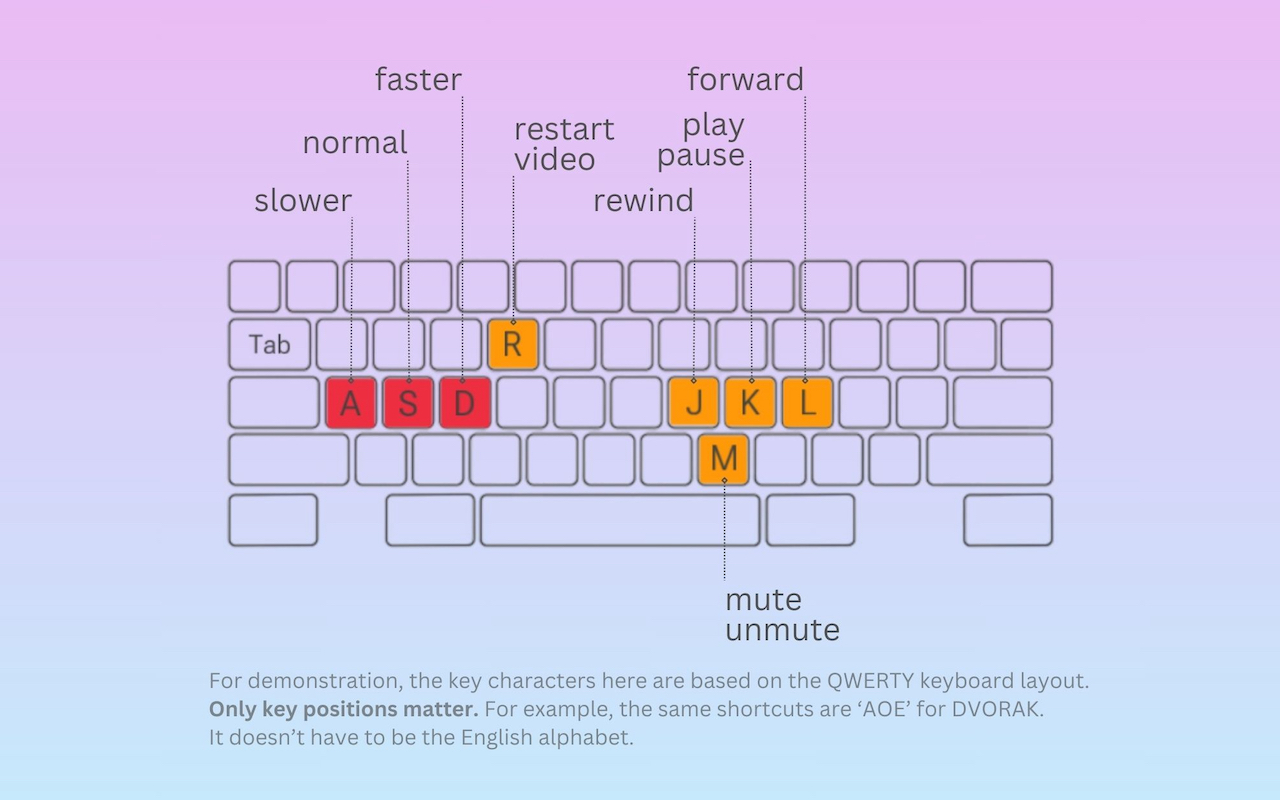
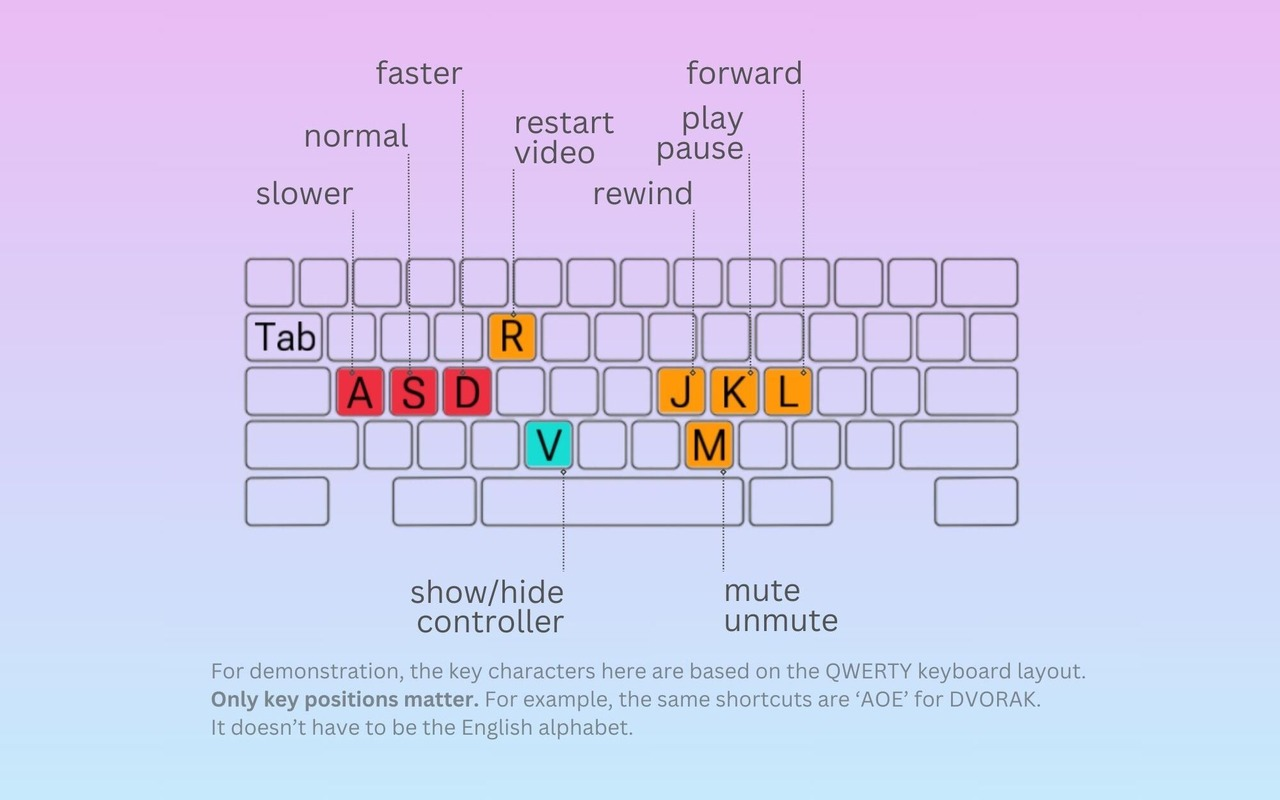
add shortcut for showing/hiding controller

diff --git a/js/content.js b/js/content.js
@@ -126,6 +126,16 @@ let handleShortcuts = (event) => {
         handleRewind();
     }
     else if (pressedCode === 'KeyR') restartVideo();
+    else if (pressedCode === 'KeyV') {
+        // toggle controller
+        settings.enableController = !settings.enableController;
+        // update settings var and sync to chrome storage
+        chrome.storage.sync.set({
+            enableController: settings.enableController
+        });
+        // update UI
+        showHideController();
+    }
 
     return false;
 };
@@ -138,6 +148,16 @@ let settings = {
     enableShortcuts: true
 };
 
+function showHideController() {
+    if (settings.enableController) {
+        setupTimeUpdates();
+        controllerNode.classList.remove('vdc-disable');
+    } else {
+        removeTimeUpdates();
+        controllerNode.classList.add('vdc-disable');
+    }
+}
+
 // initialize user settings
 chrome.storage.sync.get(settings, async function(storage) {
     settings = storage;
@@ -147,13 +167,7 @@ chrome.storage.sync.get(settings, async function(storage) {
 
         if (changes.enableController) {
             settings.enableController = changes.enableController.newValue;
-            if (settings.enableController) {
-                controllerNode.classList.remove('vdc-disable');
-                setupTimeUpdates();
-            } else {
-                controllerNode.classList.add('vdc-disable');
-                removeTimeUpdates();
-            }
+            showHideController();
         }
     
         if (changes.enableShortcuts) {
@@ -364,7 +378,7 @@ function showController(controller) {
         timer = setTimeout(function () {
             controller.classList.remove("vdc-show");
             timer = false;
-        }, 3000);
+        }, 2000);
     }
 
     return show;
@@ -529,6 +543,7 @@ function setupTimeUpdates() {
     if (!settings.enableController) return;
 
     clearInterval(showTime);
+    updateShowTime();
     showTime = setInterval(function() {
         updateShowTime();
     }, 1000);
@@ -577,6 +592,7 @@ let handleWaiting = handlePause;
 
 let handlePlaying = () => {
     clearInterval(showTime);
+    updateShowTime();
     showTime = setInterval(function() {
         updateShowTime();
     }, 1000);

diff --git a/js/main.js b/js/main.js
@@ -29,6 +29,7 @@ const enableShortcuts = document.querySelector('#enableShortcuts');
 
 // User settings, only using keys to get settings from chrome storage
 let settings = {
+    seen: false,
     enable: true,
     enableController: true,
     enableShortcuts: true
@@ -47,6 +48,10 @@ function hideBlock(elt) {
 }
 
 /******************************* event listeners ******************************/
+document.querySelector('.closebtn').addEventListener('click', function(e) {
+    e.target.parentElement.style.display='none';
+    chrome.storage.sync.set({seen: true});
+});
 
 setNormalButton.addEventListener('click', function() {
     setPlaySpeed(1);
@@ -181,6 +186,9 @@ document.onkeyup = event => {
     }
     else if (pressedCode === 'KeyM') {
         volumeButton.classList.remove('pressed');
+    }
+    else if (pressedCode === 'KeyV') {
+        enableController.click();
     }
 };
 
@@ -343,6 +351,10 @@ document.addEventListener('DOMContentLoaded', function() {
         enable.checked = storage.enable;
         enableController.checked = storage.enableController;
         enableShortcuts.checked = storage.enableShortcuts;
+
+        if(!storage.seen) {
+            document.querySelector('.alert').style.display = 'block';
+        }
 
         // force reflow
         // https://stackoverflow.com/questions/11131875/what-is-the-cleanest-way-to-disable-css-transition-effects-temporarily

diff --git a/index.html b/index.html
@@ -25,6 +25,11 @@
             <label for="tab3"><i class="fa-regular fa-keyboard"></i></label>
             
             <div class="line"></div>
+            <div class="alert" style="display: none">
+                <span class="closebtn">&times;</span>
+                <strong>New shortcut!</strong> </br>
+                Press V to show/hide controller
+            </div>
             
             <div class="content-container">
                 <div class="content" id="c1">
@@ -116,12 +121,16 @@
                     </i>
                     <ul>
                         <li>
-                            <div>Change Speed</div>
+                            <div>Change speed</div>
                             <div>A / D</div>
                         </li>
                         <li>
-                            <div>Jump to 1x Speed</div>
+                            <div>Jump to 1x speed</div>
                             <div>S</div>
+                        </li>
+                        <li>
+                            <div>Show / hide controller</div>
+                            <div>V</div>
                         </li>
                         <hr>
                         <li>

diff --git a/css/style.css b/css/style.css
@@ -311,28 +311,29 @@ p {
   text-align: center;
 }
 
-.alert{
-  font-family: -apple-system,BlinkMacSystemFont,'Roboto','Segoe UI','Oxygen-Sans','Ubuntu','Cantarell','Helvetica Neue',sans-serif;
-  min-height: 38px;
-  padding: 12px 15px 15px;
-  border-radius: 4px;
-  opacity:1;
-  transition: opacity 0.6s;
-  max-width:100%
-}
-.info {
+/* The alert message box */
+.alert {
+  padding: 10px 20px;
   background: rgba(186, 208, 228, .37);
   color: #00539f;
-  border-color: #00539f;
+  font-size: 16px;
 }
-.alert code, .alert .mark{
-  background: #fff;
-  opacity: 0.9;
-  padding: 3px 5px;
-  border-radius: 4px;
-  font-family: Consolas,Monaco,'Andale Mono',monospace;
-  font-size: 89%;
-  font-weight: normal;
+
+/* The close button */
+.closebtn {
+  margin-left: 15px;
+  color: #00539f;
+  font-weight: bold;
+  float: right;
+  font-size: 22px;
+  line-height: 20px;
+  cursor: pointer;
+  transition: 0.3s;
+}
+
+/* When moving the mouse over the close button */
+.closebtn:hover {
+  color: black;
 }
 
 /******************************************

diff --git a/js/background.js b/js/background.js
@@ -42,6 +42,7 @@ chrome.runtime.onInstalled.addListener((details) => {
             text: "NEW",
             tabId: tab.id,
           });
+          chrome.storage.sync.set({seen: false});
         }
       }
     });

diff --git a/README.md b/README.md
@@ -26,8 +26,13 @@ Find it here:
 | Rewind / advance 10 secs   | J / L                                   |
 | Play / pause               | K                                       |
 | Mute / unmute              | M                                       |
+| Show/hide controller       | V                                       |
 
 ## 🎉 Updates 🎉
+**1.0.7.3**
+- Add shortcut to show/hide controller
+- Add banner to notify users of new updates
+
 **1.0.7.2**
 - All shortcuts are available for YouTube Shorts.
 
